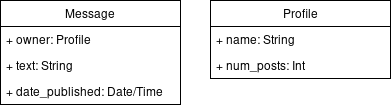
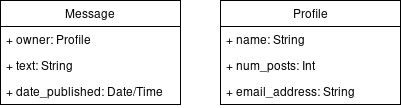
Added more information about models

diff --git a/src/presentation.md b/src/presentation.md
@@ -335,17 +335,58 @@ Introduction to create a simple REST backend.
 # What should it remember? - How to store the state?
 
 For our chat application there are 2 things we need to store:
+1. Messages
+⋅⋅* Text
+..* Owner
+..* publish date
+2. Profile/User data
+..* Name
+..* Email
+..* Post count
 
-    1. Messages
-    2. Profile/User data
+Bellow is a diagram that should help visualize the data:
 
-Bellow is a diagram that should help illustrate some of the things each piece of state
-
-<img src="media/model_class_diagram.png" alt="drawing"/>
-
+<center><img src="media/model_class_diagram.png" alt="drawing"/></center>
 
 ## Where and how to store this information
+When it comes to storage you have several options:
+1. SQL Database
+2. No-SQL Database
+3. Local file based approach
+4. etc...
 
+Generally speaking, a lot of backend frameworks support multiple database backends.
+You might descredit the use of a file based approach ( "in house db" ) and for a lot of data it
+certainly has flaws but think of GIT for a second, it technically has a file based database.
+
+In this tutorial we will be using a built in SQLite databse. However, for your own professional
+development, I highly encourage you set up a dedicated database. A lot of jobs will ask for
+familiarity with one of them!
+
+Once you have chosen your SQL database of choice you will need to configure the bindings to your
+backend.
+
+## Django: Using the database
+
+Using [the django DB binding guide] go ahead and set up the databse..
+
+[the django DB binding guide]: https://docs.djangoproject.com/en/2.1/topics/install/#database-installation
+
+## Models
+
+Lets begin by the defining the model // TODO FINISH
+
+
+```
+class Profile( models.Model ):
+    name = models.CharField( max_length=25 )
+    post_count = models.IntegerField( default=0 )
+
+class Message( models.Model ):
+    profile = models.ForeignKey( Profile, on_delete=models.CASCADE )
+    message_text = models.CharField( max_length=10000 )
+    pub_date = models.DateTimeField( 'date published' )
+```
 
 
 ---
